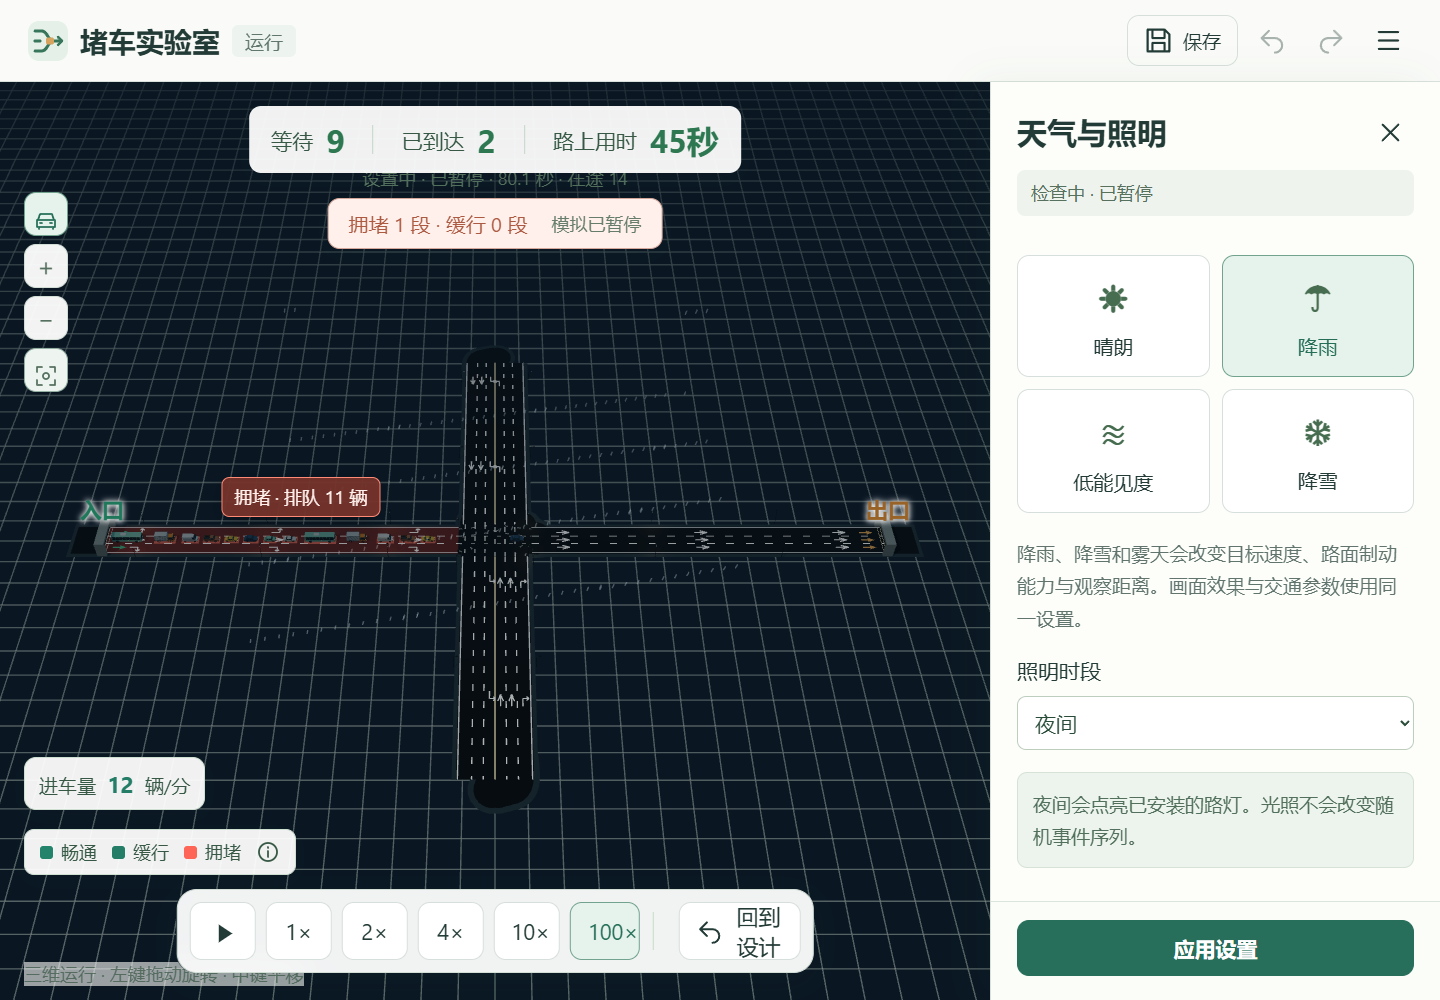
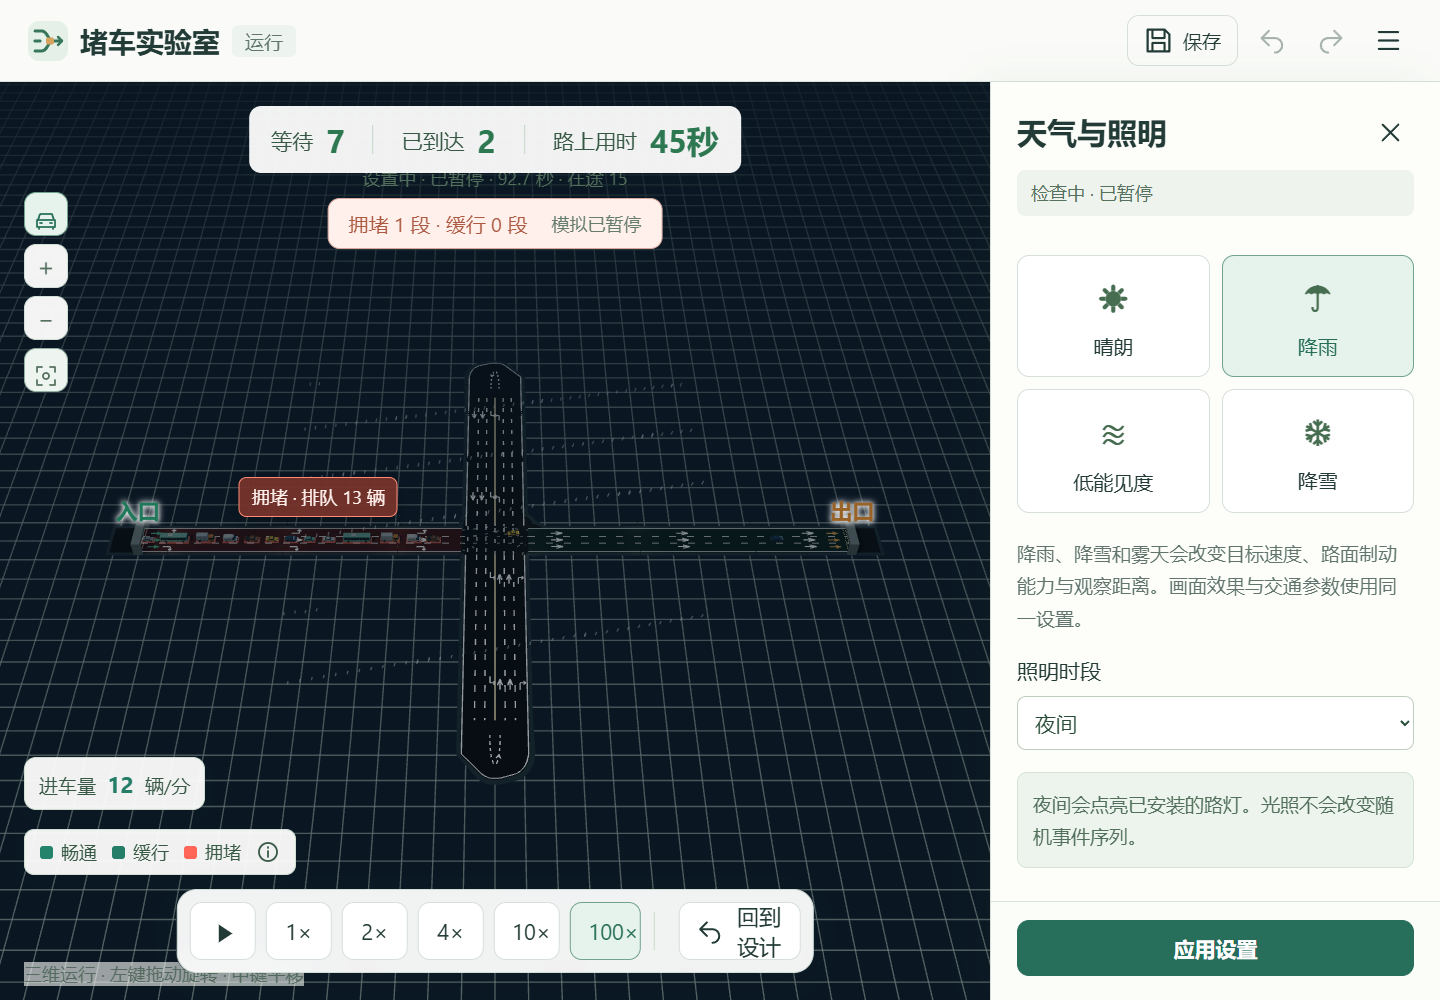
修正断头路回车区的铺装与引导标线

diff --git a/src/scene.js b/src/scene.js
@@ -8,6 +8,7 @@ import {WorldDetails} from './world-details.js';
 import {junctionLayout} from './junction-layout.mjs';
 import {pavementFootprints,dominantThroughPair} from './junction-design.mjs';
 import {terminalIds,terminalLabel} from './terminals.mjs';
+import {roadTurnarounds} from './turnarounds.mjs';
 
 export const assetUrl = path => new URL(`./assets/${path}`, document.baseURI).href;
 const BG=0xeaf0e8, ROAD=0x1d2428, EDGE=0x405057, AMBER=0xffbd4c, GREEN=0x74edb3;
@@ -110,6 +111,14 @@ export class TrafficScene {
       for(const c of branches.values())paint(c,false);
     }
   }
+  turnaroundGuidance(pads,color){
+    for(const pad of pads){
+      for(const edge of pad.outline)this.pathLine(edge,color,.50);
+      const guide=this.pathLine(pad.guide,0xe3e8e1,.51,true);guide.material.dashSize=1.4;guide.material.gapSize=1.2;
+      const path=makePath(pad.guide),tip=pathPointAt(path,path.length*.67),dx=tip.tangentX,dz=tip.tangentZ;
+      this.pathLine([{x:tip.x-dx*1.4-dz*.8,z:tip.z-dz*1.4+dx*.8},tip,{x:tip.x-dx*1.4+dz*.8,z:tip.z-dz*1.4-dx*.8}],0xe3e8e1,.54);
+    }
+  }
   batchRoadLines(){
     const groups=new Map();
     for(const line of [...this.roadGroup.children]){
@@ -133,17 +142,24 @@ export class TrafficScene {
     this.pavementMesh(curbs,materials.edge,.25);this.pavementMesh(pavement,materials.road,.43);this.pavementGeometry={polygons:pavement,connections};
     const trim=(road,id)=>layout.byNode.get(id)?.arms.find(a=>a.roadId===road.id)?.trim||0;
     for(const road of network.roads){
-      const path=roadPath(network,road),width=roadWidth(road),start=trim(road,road.a),end=path.length-trim(road,road.b),steps=Math.max(2,Math.ceil((end-start)/3)),points=[];
+      const path=roadPath(network,road),width=roadWidth(road),pads=roadTurnarounds(network,road,connections,envelope);
+      const start=Math.max(trim(road,road.a),pads.find(p=>p.end==='a')?.trim||0),end=path.length-Math.max(trim(road,road.b),pads.find(p=>p.end==='b')?.trim||0),steps=Math.max(2,Math.ceil((end-start)/3)),points=[];
       for(let i=0;i<=steps;i++){const p=roadPointAt(network,road,start+(end-start)*i/steps);points.push({x:p.x,z:p.z});}
-      const surface=materials.road.clone();this.strip(points,width,surface,.445);
-      const heat=new THREE.MeshBasicMaterial({color:GREEN,transparent:true,opacity:0,depthWrite:false,toneMapped:false});this.strip(points,width,heat,.52);
-      for(const side of[-1,1]){const edge=[];for(let i=0;i<=steps;i++)edge.push(roadPointAt(network,road,start+(end-start)*i/steps,side*(width/2-.45)));this.pathLine(edge,selection===road.id?AMBER:0xbac6c7,.48);}
-      const counts=laneCounts(road);
-      if(hasLaneConfiguration(road)){
-        for(let i=1;i<counts.total;i++){const offset=-counts.total*1.8+i*3.6,line=[];for(let j=0;j<=steps;j++)line.push(roadPointAt(network,road,start+(end-start)*j/steps,offset));const divider=!road.oneWay&&i===counts.backward;this.pathLine(line,divider?0xd5bc76:0xe3e8e1,.49,!divider);}
-      }else if(!road.oneWay)this.pathLine(points,0xbac6c7,.48,true);
-      for(const forward of[true,false]){const count=forward?counts.forward:counts.backward;for(let lane=0;lane<count;lane++)for(let d=start+12;d<end-8;d+=50)this.laneArrow(network,road,d,laneOffset(road,forward,lane),forward,terminalIds(network,'sink').includes(forward?road.b:road.a)?['through']:effectiveLaneTurns(network,road,forward,lane));}
-      const middle=roadPointAt(network,road,path.length/2);const badge=document.createElement('div');badge.className='road-badge hidden';this.labelLayer.append(badge);this.roadVisuals.set(road.id,{surface,heat,badge,p:{x:middle.x,z:middle.z,y:1},level:null});
+      const surface=materials.road.clone();
+      for(const pad of pads){this.pavementMesh([pad.curbPolygon],materials.edge,.25);this.pavementMesh([pad.polygon],surface,.445);}
+      this.turnaroundGuidance(pads,selection===road.id?AMBER:0xbac6c7);
+      if(end-start>.05){
+        this.strip(points,width,surface,.445);
+        for(const side of[-1,1]){const edge=[];for(let i=0;i<=steps;i++)edge.push(roadPointAt(network,road,start+(end-start)*i/steps,side*(width/2-.45)));this.pathLine(edge,selection===road.id?AMBER:0xbac6c7,.48);}
+        const counts=laneCounts(road);
+        if(hasLaneConfiguration(road)){
+          for(let i=1;i<counts.total;i++){const offset=-counts.total*1.8+i*3.6,line=[];for(let j=0;j<=steps;j++)line.push(roadPointAt(network,road,start+(end-start)*j/steps,offset));const divider=!road.oneWay&&i===counts.backward;this.pathLine(line,divider?0xd5bc76:0xe3e8e1,.49,!divider);}
+        }else if(!road.oneWay)this.pathLine(points,0xbac6c7,.48,true);
+        for(const forward of[true,false]){const count=forward?counts.forward:counts.backward;for(let lane=0;lane<count;lane++)for(let d=start+12;d<end-8;d+=50)this.laneArrow(network,road,d,laneOffset(road,forward,lane),forward,terminalIds(network,'sink').includes(forward?road.b:road.a)?['through']:effectiveLaneTurns(network,road,forward,lane));}
+      }
+      const ports=new Set([...terminalIds(network,'source'),...terminalIds(network,'sink')]);
+      if(road.oneWay)for(const endNode of [road.a,road.b])if(!ports.has(endNode)&&network.roads.filter(r=>r.a===endNode||r.b===endNode).length===1){const s=endNode===road.a?0:path.length;this.pathLine([roadPointAt(network,road,s,-width/2+.45),roadPointAt(network,road,s,width/2-.45)],selection===road.id?AMBER:0xbac6c7,.50);}
+      const middle=roadPointAt(network,road,path.length/2);const badge=document.createElement('div');badge.className='road-badge hidden';this.labelLayer.append(badge);this.roadVisuals.set(road.id,{surface,badge,p:{x:middle.x,z:middle.z,y:1},level:null});
     }
     this.junctionGuidance(network,layout,connections);
     for(const node of network.nodes){
@@ -177,7 +193,7 @@ export class TrafficScene {
     let g=this.models.get('signal')?.clone(true);if(!g){g=new THREE.Group();const post=makeBox(.18,4.8,.18,materials.edge);post.position.y=2.4;g.add(post);const box=makeBox(.7,1.9,.5,materials.dark);box.position.y=4.7;g.add(box);for(const [i,color]of['red','amber','green'].entries()){const mesh=new THREE.Mesh(new THREE.SphereGeometry(.21,12,10),mat(0x333333));mesh.name=`lens_${color}`;mesh.position.set(0,5.25-i*.55,.28);g.add(mesh);}}
     g.traverse(n=>{if(n.isMesh){n.userData.asset=true;n.material=n.material.clone();}});return g;
   }
-  setModeVisibility(){this.roadGroup.visible=this.mode!=='garage';this.carGroup.visible=this.mode==='run';this.garageGroup.visible=this.mode==='garage';this.previewGroup.visible=this.mode==='edit';this.hoverGroup.visible=this.mode==='edit';this.grid.visible=this.mode!=='garage';this.labelLayer.style.display=this.mode==='garage'?'none':'';this.details.visible(this.mode);this.roadGroup.traverse(n=>{if(n.userData.editorMarker)n.visible=this.mode==='edit';});for(const v of this.roadVisuals.values())if(this.mode!=='run'){v.badge.classList.add('hidden');v.heat.opacity=0;v.surface.color.setHex(ROAD);v.level=null;}}
+  setModeVisibility(){this.roadGroup.visible=this.mode!=='garage';this.carGroup.visible=this.mode==='run';this.garageGroup.visible=this.mode==='garage';this.previewGroup.visible=this.mode==='edit';this.hoverGroup.visible=this.mode==='edit';this.grid.visible=this.mode!=='garage';this.labelLayer.style.display=this.mode==='garage'?'none':'';this.details.visible(this.mode);this.roadGroup.traverse(n=>{if(n.userData.editorMarker)n.visible=this.mode==='edit';});for(const v of this.roadVisuals.values())if(this.mode!=='run'){v.badge.classList.add('hidden');v.surface.color.setHex(ROAD);v.level=null;}}
   setMode(mode){this.mode=mode;this.currentCamera=mode==='edit'&&!this.editPerspective?this.editCamera:this.camera;this.controls&&(this.controls.enabled=(mode!=='edit'||this.editPerspective)&&!this.fallback);this.setNavigationTool(this.navigationTool);this.setModeVisibility();if(mode==='run')this.fit();if(mode==='edit'){this.clearCars();this.details.reset();this.fit();}}
   async transitionToRun(){this.mode='transition';this.currentCamera=this.camera;this.setModeVisibility();this.fit();const end=this.camera.position.clone(),start=new THREE.Vector3(this.center.x,Math.max(160,end.y*1.3),this.center.z+.05);const duration=matchMedia('(prefers-reduced-motion: reduce)').matches?0:750;const t0=performance.now();await new Promise(resolve=>{const step=t=>{const ratio=duration?Math.min(1,(t-t0)/duration):1;const eased=ratio*ratio*(3-2*ratio);this.camera.position.lerpVectors(start,end,eased);this.camera.lookAt(this.center);if(ratio<1)requestAnimationFrame(step);else resolve();};requestAnimationFrame(step);});this.setMode('run');}
   clearCars(){for(const model of this.vehicles.values())this.carGroup.remove(model);this.vehicles.clear();}
@@ -190,9 +206,9 @@ export class TrafficScene {
     this.updateTraffic(snapshot.roadStats||{});this.details.update(snapshot,this.center);
   }
   updateTraffic(roads){
-    const colors={empty:0x576a70,free:0x64e4a7,slow:0xffbd4c,congested:0xff6556};const surfaces={empty:ROAD,free:0x203c34,slow:0x5c4925,congested:0x652b27};
+    const surfaces={empty:ROAD,free:0x203c34,slow:0x5c4925,congested:0x652b27};
     const crowded=Object.values(roads).filter(r=>r.level==='congested'||r.level==='slow').sort((a,b)=>b.queuedVehicles-a.queuedVehicles||a.speedRatio-b.speedRatio).slice(0,this.width<600?2:4);const visible=new Set(crowded.map(r=>r.roadId));
-    for(const[id,v]of this.roadVisuals){const r=roads[id],level=r?.level||'empty';if(v.level!==level||v.heatmap!==this.showHeatmap){v.level=level;v.heatmap=this.showHeatmap;v.surface.color.setHex(this.showHeatmap===false?ROAD:surfaces[level]);v.heat.color.setHex(colors[level]);v.heat.opacity=this.showHeatmap===false||level==='empty'?0:level==='congested'?.16:.08;}
+    for(const[id,v]of this.roadVisuals){const r=roads[id],level=r?.level||'empty';if(v.level!==level||v.heatmap!==this.showHeatmap){v.level=level;v.heatmap=this.showHeatmap;v.surface.color.setHex(this.showHeatmap===false?ROAD:surfaces[level]);}
       v.badge.classList.toggle('hidden',!visible.has(id)||this.mode!=='run');v.badge.dataset.level=level;if(r)v.badge.textContent=`${r.label} · ${r.queuedVehicles?`排队 ${r.queuedVehicles} 辆`:r.meanSpeedKmh==null?'无车':`${r.meanSpeedKmh.toFixed(0)} km/h`}`;
     }
   }

diff --git a/README.md b/README.md
@@ -6,7 +6,7 @@
   <p><a href="#玩法演示">玩法演示</a> · <a href="#本地运行">本地运行</a> · <a href="#操作方式">操作方式</a> · <a href="#模型与参数">模型与参数</a></p>
 </div>
 
-![堵车实验室六车道信号路口实际运行画面](media/hero.png)
+![堵车实验室六车道信号路口实际运行画面](media/hero.png?v=7.0.1)
 
 从一条道路开始，逐步搭建交叉口、分岔和环岛。调整车道用途、进车需求与信号配时，比较道路结构和突发事件对通行的影响。全部模型和运行资源随仓库提供。
 
@@ -18,7 +18,7 @@
 
 ![从空白画布放置入口、绘制道路、连接出口并开始运行](media/build.gif)
 
-支持直线、曲线、自由道路和圆形道路。单向道路支持 1 至 16 车道，双向道路支持每个方向 1 至 8 车道；道路宽度随车道数量调整，路口按道路走廊与车辆转弯包络生成铺装。
+支持直线、曲线、自由道路和圆形道路。单向道路支持 1 至 16 车道，双向道路支持每个方向 1 至 8 车道；道路宽度随车道数量调整，路口按道路走廊与车辆转弯包络生成铺装。普通双向道路末端自动设置带方向引导的回车区。
 
 ### 多入口、多出口
 
@@ -28,7 +28,7 @@
 
 ### 信号与拥堵
 
-![六车道转向路口的信号控制、车流与排队变化](media/signals.gif)
+![六车道转向路口的信号控制、车流与排队变化](media/signals.gif?v=7.0.1)
 
 调整绿灯时长、总进车量和逐道转向配置，观察排队、车速和到达数量的变化。内置模板提供信号均分与东西优先、20 km/h 与 60 km/h 瓶颈，以及 Braess 有捷径与无捷径布局，便于在相同需求和随机种子下进行对照。
 
@@ -36,12 +36,12 @@
 
 道路属性支持逐道配置左转、直行、右转与共享车道。自动模式依据路口的可通行方向分配车道用途。
 
-![道路属性中的车道数量与逐道转向设置](media/turn-lanes.png)
+![道路属性中的车道数量与逐道转向设置](media/turn-lanes.png?v=7.0.1)
 
 天气与昼夜设置可切换场景环境；车库可查看八类车辆的三维模型。运行中还可注入车辆故障与碰撞，执行清障，并保存、导出本轮统计与设计。菜单“交通原理”提供三段可暂停的循环示意动画。
 
 <p align="center">
-  <a href="media/environment.png"><img src="media/environment.png" width="49%" alt="雨夜环境中的实际路网"></a>
+  <a href="media/environment.png?v=7.0.1"><img src="media/environment.png?v=7.0.1" width="49%" alt="雨夜环境中的实际路网"></a>
   <a href="media/garage.png"><img src="media/garage.png" width="49%" alt="车型车库中的三维车辆"></a>
 </p>
 
